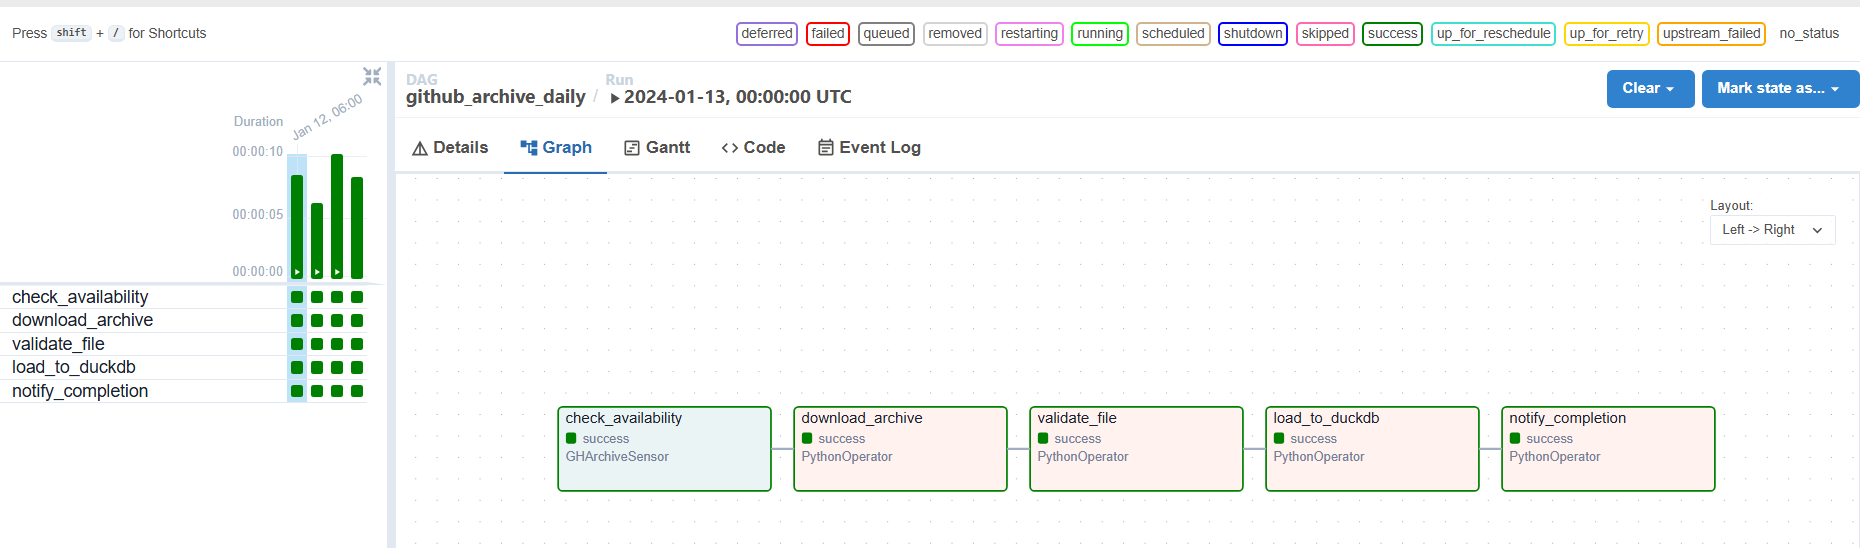
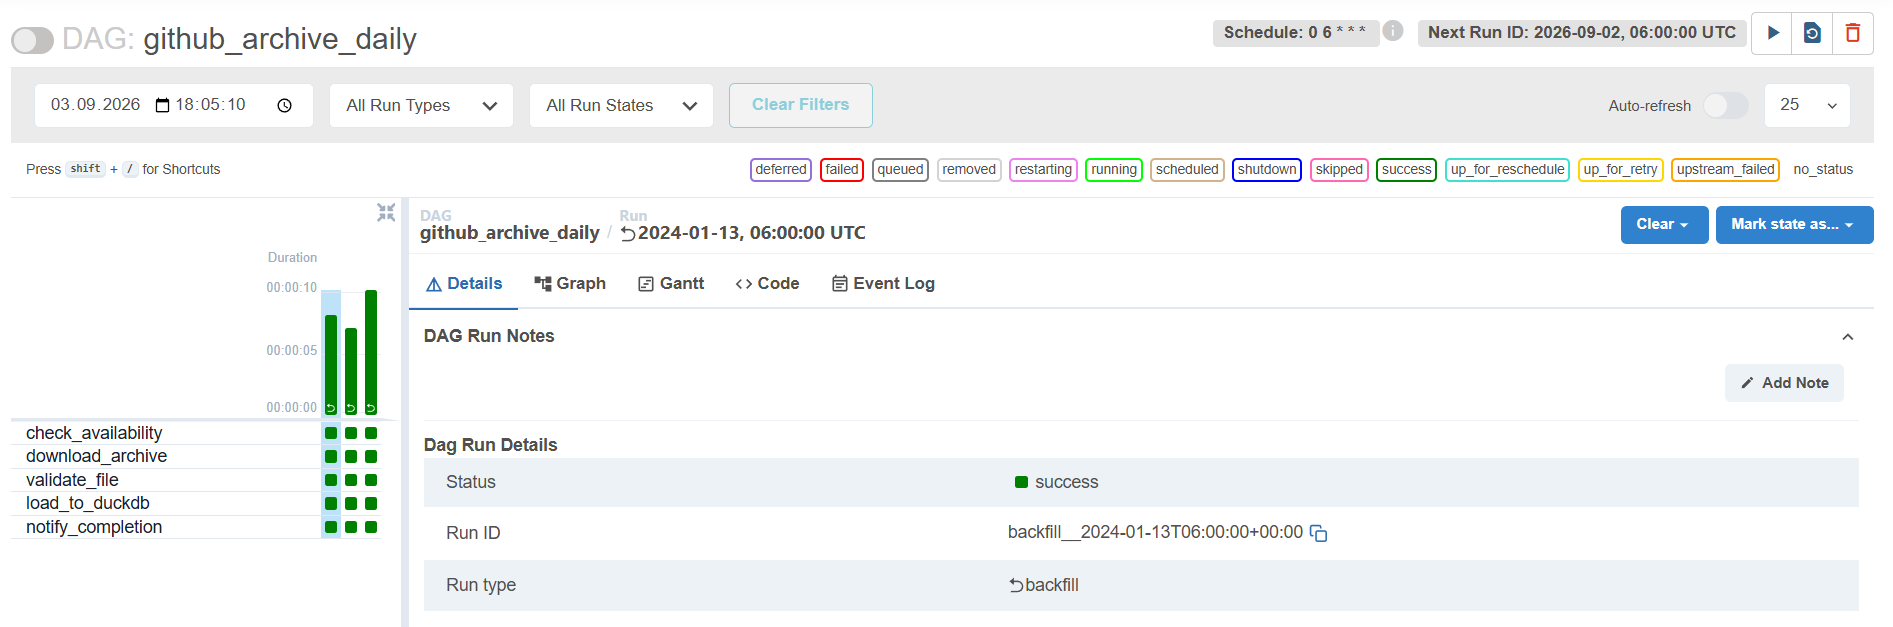
Graphs_corrected Airflow

diff --git a/lesson-08-orchestration-airflow/homework/dags/github_archive_daily.py b/lesson-08-orchestration-airflow/homework/dags/github_archive_daily.py
@@ -67,6 +67,7 @@ with DAG(
     dag_id="github_archive_daily",
     schedule="0 6 * * *",
     start_date=datetime(2024, 1, 1),
+    max_active_runs=1,
     catchup=False,
     tags=["github", "archive"],
 ) as dag:
@@ -76,7 +77,7 @@ with DAG(
           hour=14,
           timeout=600,
           poke_interval=60,
-          mode="poke",
+          mode="reschedule",
       )
       
 

diff --git a/lesson-08-orchestration-airflow/homework/plugins/gh_sensor.py b/lesson-08-orchestration-airflow/homework/plugins/gh_sensor.py
@@ -43,3 +43,4 @@ class GHArchiveSensor(BaseSensorOperator):
             return False
         except urllib.error.URLError:
             return False
+            
